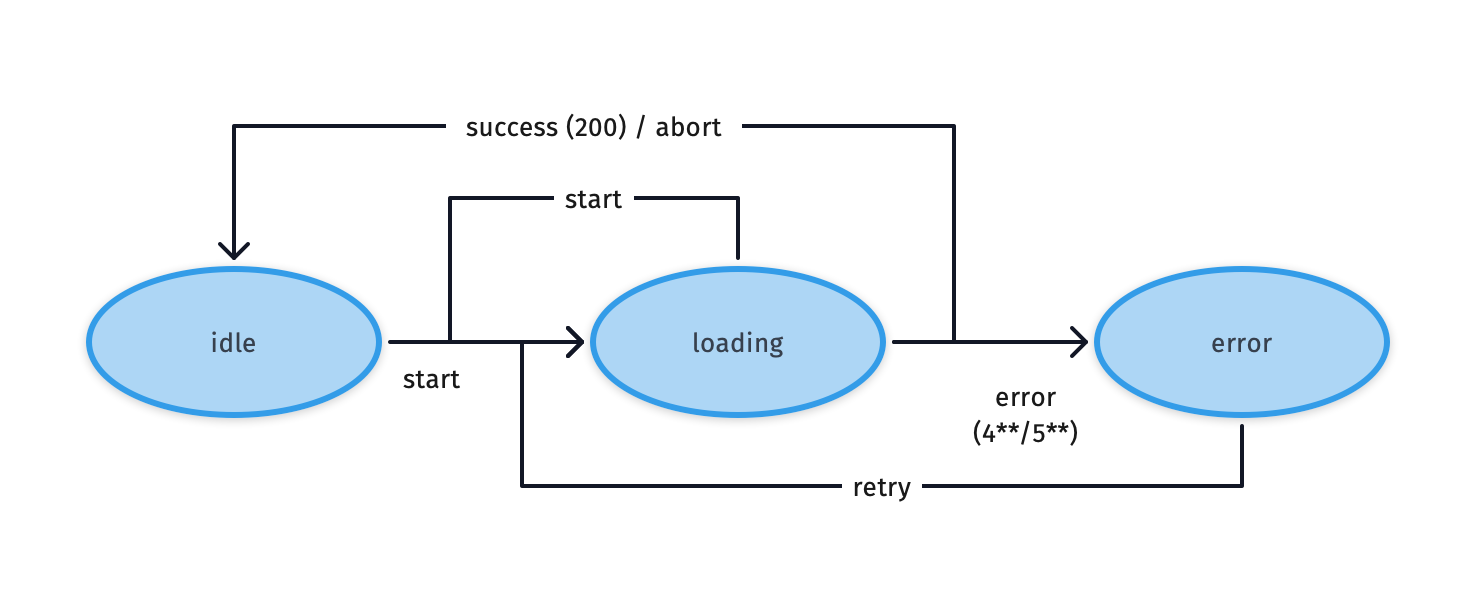
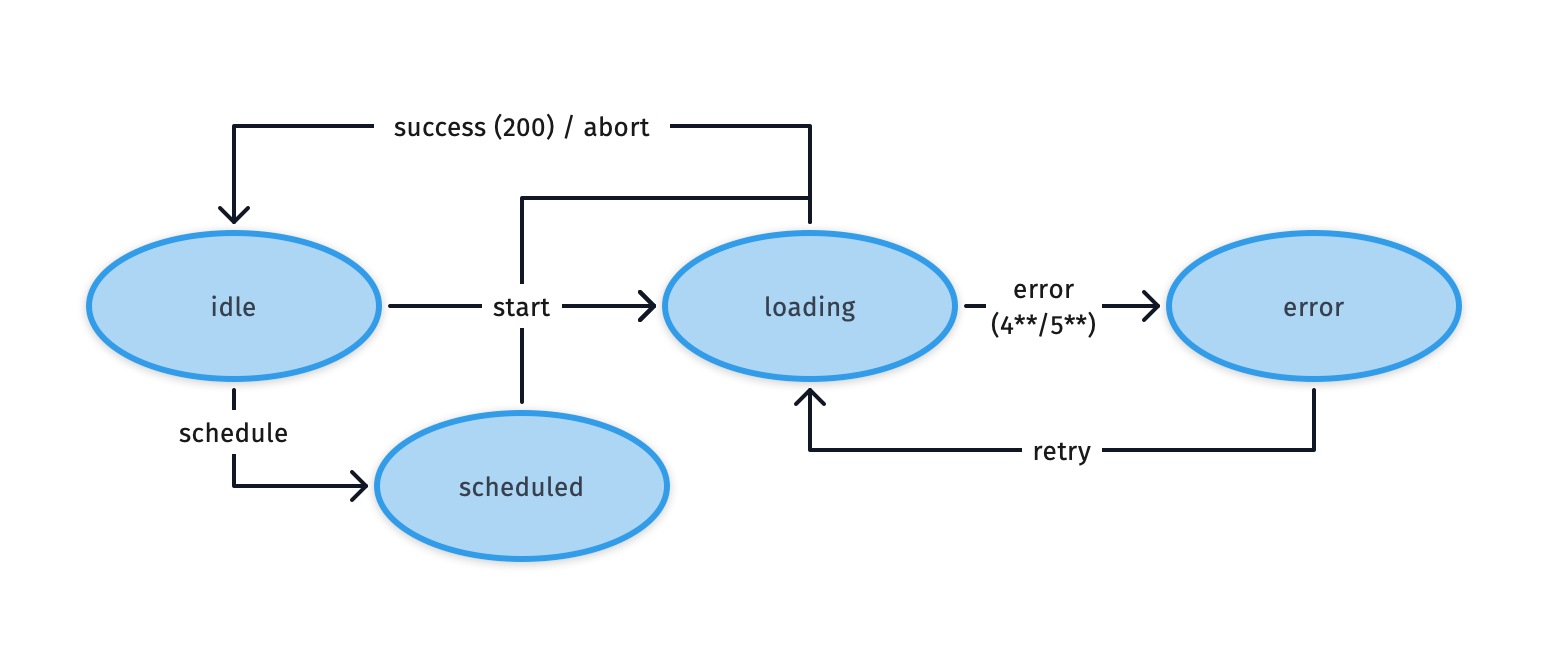
added application governance

Changed region(s): [[0.0312, 0.1863, 0.9661, 0.8693]]

diff --git a/README.md b/README.md
@@ -1,6 +1,6 @@
 # Front-end reference architecture
 
-##### _version 0.6.1_
+##### _version 1.0.0_
 
 **Author(s)**: Kevin Pennekamp | front-end architect | [kevtiq.dev](https://kevtiq.dev) | <hello@kevtiq.dev>
 
@@ -74,7 +74,7 @@ The mediator sends the request to the correct client after the middleware. With 
 
 > **NOTE**: in case your chosen UI framework does not allow of UI updates around asynchronous calls, you can let the element subscribe to the pub/sub and have the mediator send the response via the pub/sub. you can use the pub/sub.
 
-To ensure resilience, each request should follow the same [statechart](https://statecharts.github.io/), as shown below. When all requests, regardless of their source, follow the same pattern, the API client and/or UI can consistently handle them. Each request starts in _idle_. When a request is started, it moves into the _loading_ state. From this state, four events can happen: success, abort, error, or start. In the latter's case, the previous request is aborted, and a new request is started.
+To ensure resilience, each request should follow the same [statechart](https://statecharts.github.io/), as shown below. When all requests, regardless of their source, follow the same pattern, the API client and/or UI can consistently handle them. Each request starts in _idle_. A request can either start or be scheduled. Both from _idle_ and _scheduled_ the request can start. It now moves into the _loading_ state. From this state, four events can happen: success, abort, error, or start. In the latter's case, the previous request is aborted, and a new request is started.
 
 ![](images/architecture-core-gateway-statechart.png)
 
@@ -119,24 +119,32 @@ A user interacts with the UI. This interaction invokes an action. A component ca
 > **NOTE**: modern UI frameworks like React and Vue handle the described observer internally. React handles re-renders of the UI, while the lifecycles methods (e.g. `useEffect`) handle invoking actions.
 
 ## UI performance principles
-Users expect modern web applications to be performant. Several principles are facilitated by the reference architecture to increase the *perceived* performance. These principles describe the *where*, *when* and *how* of UI state management. 
+
+Users expect modern web applications to be performant. Several principles are facilitated by the reference architecture to increase the _perceived_ performance. These principles describe the _where_, _when_ and _how_ of UI state management.
 
 - **[Colocation](https://kentcdodds.com/blog/state-colocation-will-make-your-react-app-faster/) (where)**: UI state should live next to the UI code where possible (component, module or application level). State updates will result in less re-renders (of parts) of the UI.
 - **[Data flow](https://overreacted.io/writing-resilient-components/#principle-1-dont-stop-the-data-flow) (where)**: state that lives on a higher level should not be put in the state on a lower level. This breaks the data flow of the observer in the [component architecture](#user-interface-components).
 - **[Optimistic UI](https://www.smashingmagazine.com/2016/11/true-lies-of-optimistic-user-interfaces/) (when)**: the expected result of asynchronous or heavy tasks are stored in the state, before the actual task is finished and its result is received. This is detailed in the diagram below.
-- **Transactions (how)**: when many state mutations are required, they should be combined in a single transaction (e.g. in the [application store](#application-store)). 
+- **Transactions (how)**: when many state mutations are required, they should be combined in a single transaction (e.g. in the [application store](#application-store)).
 - **[Statecharts](https://statecharts.github.io/) (how)**: UI state should be modeled as a statechart as much as possible, to improve the resilience of the UI.
 
 ![](images/optimistic-ui.png)
 
-Next to these principles, **prefetching** of data (where possible) results in better  performance. When using *gateway* or *section* modules, different pages need different data. When entering a page (e.g. detail page), data for other pages can already be prefetched and put in the application/module store (e.g. for an overview page). Depending on the entry page and what exists in the store(s), different data is prefetched. 
+Next to these principles, **prefetching** of data (where possible) results in better performance. When using _gateway_ or _section_ modules, different pages need different data. When entering a page (e.g. detail page), data for other pages can already be prefetched and put in the application/module store (e.g. for an overview page). Depending on the entry page and what exists in the store(s), different data is prefetched.
 
 ## Application governance
+Governance in applications is vital for digital enterprises. It refers to the ongoing process of managing, monitoring, and auditing the use of the application. Several forms of governance are supported in this reference architecture. First of all it allows for 
 
-- Allows for different data stores based on security guidelines
-- Allows for nested and composable role-based access control
-- role-based access control can be implemented on router, components, actions and even in the gateway middleware for different external sources
+Role-based access management (RBAC) is the most straight forward auditing implementation for digital enterprises. This reference architecture facilitates several possibilities in the UI that can be applied.  
+
+- As the _router_ is the main entry-point of the application, the initial RBAC implementation needs to happen on this level.
+- Each _module router_ can apply the same level of RBAC implementation. This allows for complex, nested access rules based on the URL of the application.
+- RBAC can be applied inside a component (e.g. `return null` in case the user is not allowed to view the component) or in parent components by applying _conditional visibility_.
+- It is possible to Actions in _modules_ and _components_ can be guarded based on 
+- RBAC can be added to the _middleware_ of the _API gateway_. 
 
 ![](images/rbac.png)
 
-Something about system tracker on the `<<core>>` for error handling and system logs
+As JavaScript is an unsafe language by default (any user can alter it in the browser). So blocking rendering of the UI is not enough. When applied properly, _actions_ in modules and components can also be guarded based on the RBAC rules. Lastly, RBAC can be applied in the _middleware_ of the _API gateway_, to disallow connectivity to external sources completely. 
+
+But governance is not all about auditing and security. Monitoring is equally important. Monitoring ensures more information, i.e. context, is stored and maintained on defects.  The _event-driven_ nature of this reference architecture makes it possible to create this context. When implementing a system tracker, logging all pub/sub, API, navigation and store events creates this context.

diff --git a/CHANGELOG.md b/CHANGELOG.md
@@ -3,6 +3,7 @@
 ## Version 0.7.0
 
 - Added a section around application governance (security and error handling).
+- Changed request statechart to add a 'scheduled' state
 
 ## Version 0.6.1
 - Small textual changes
